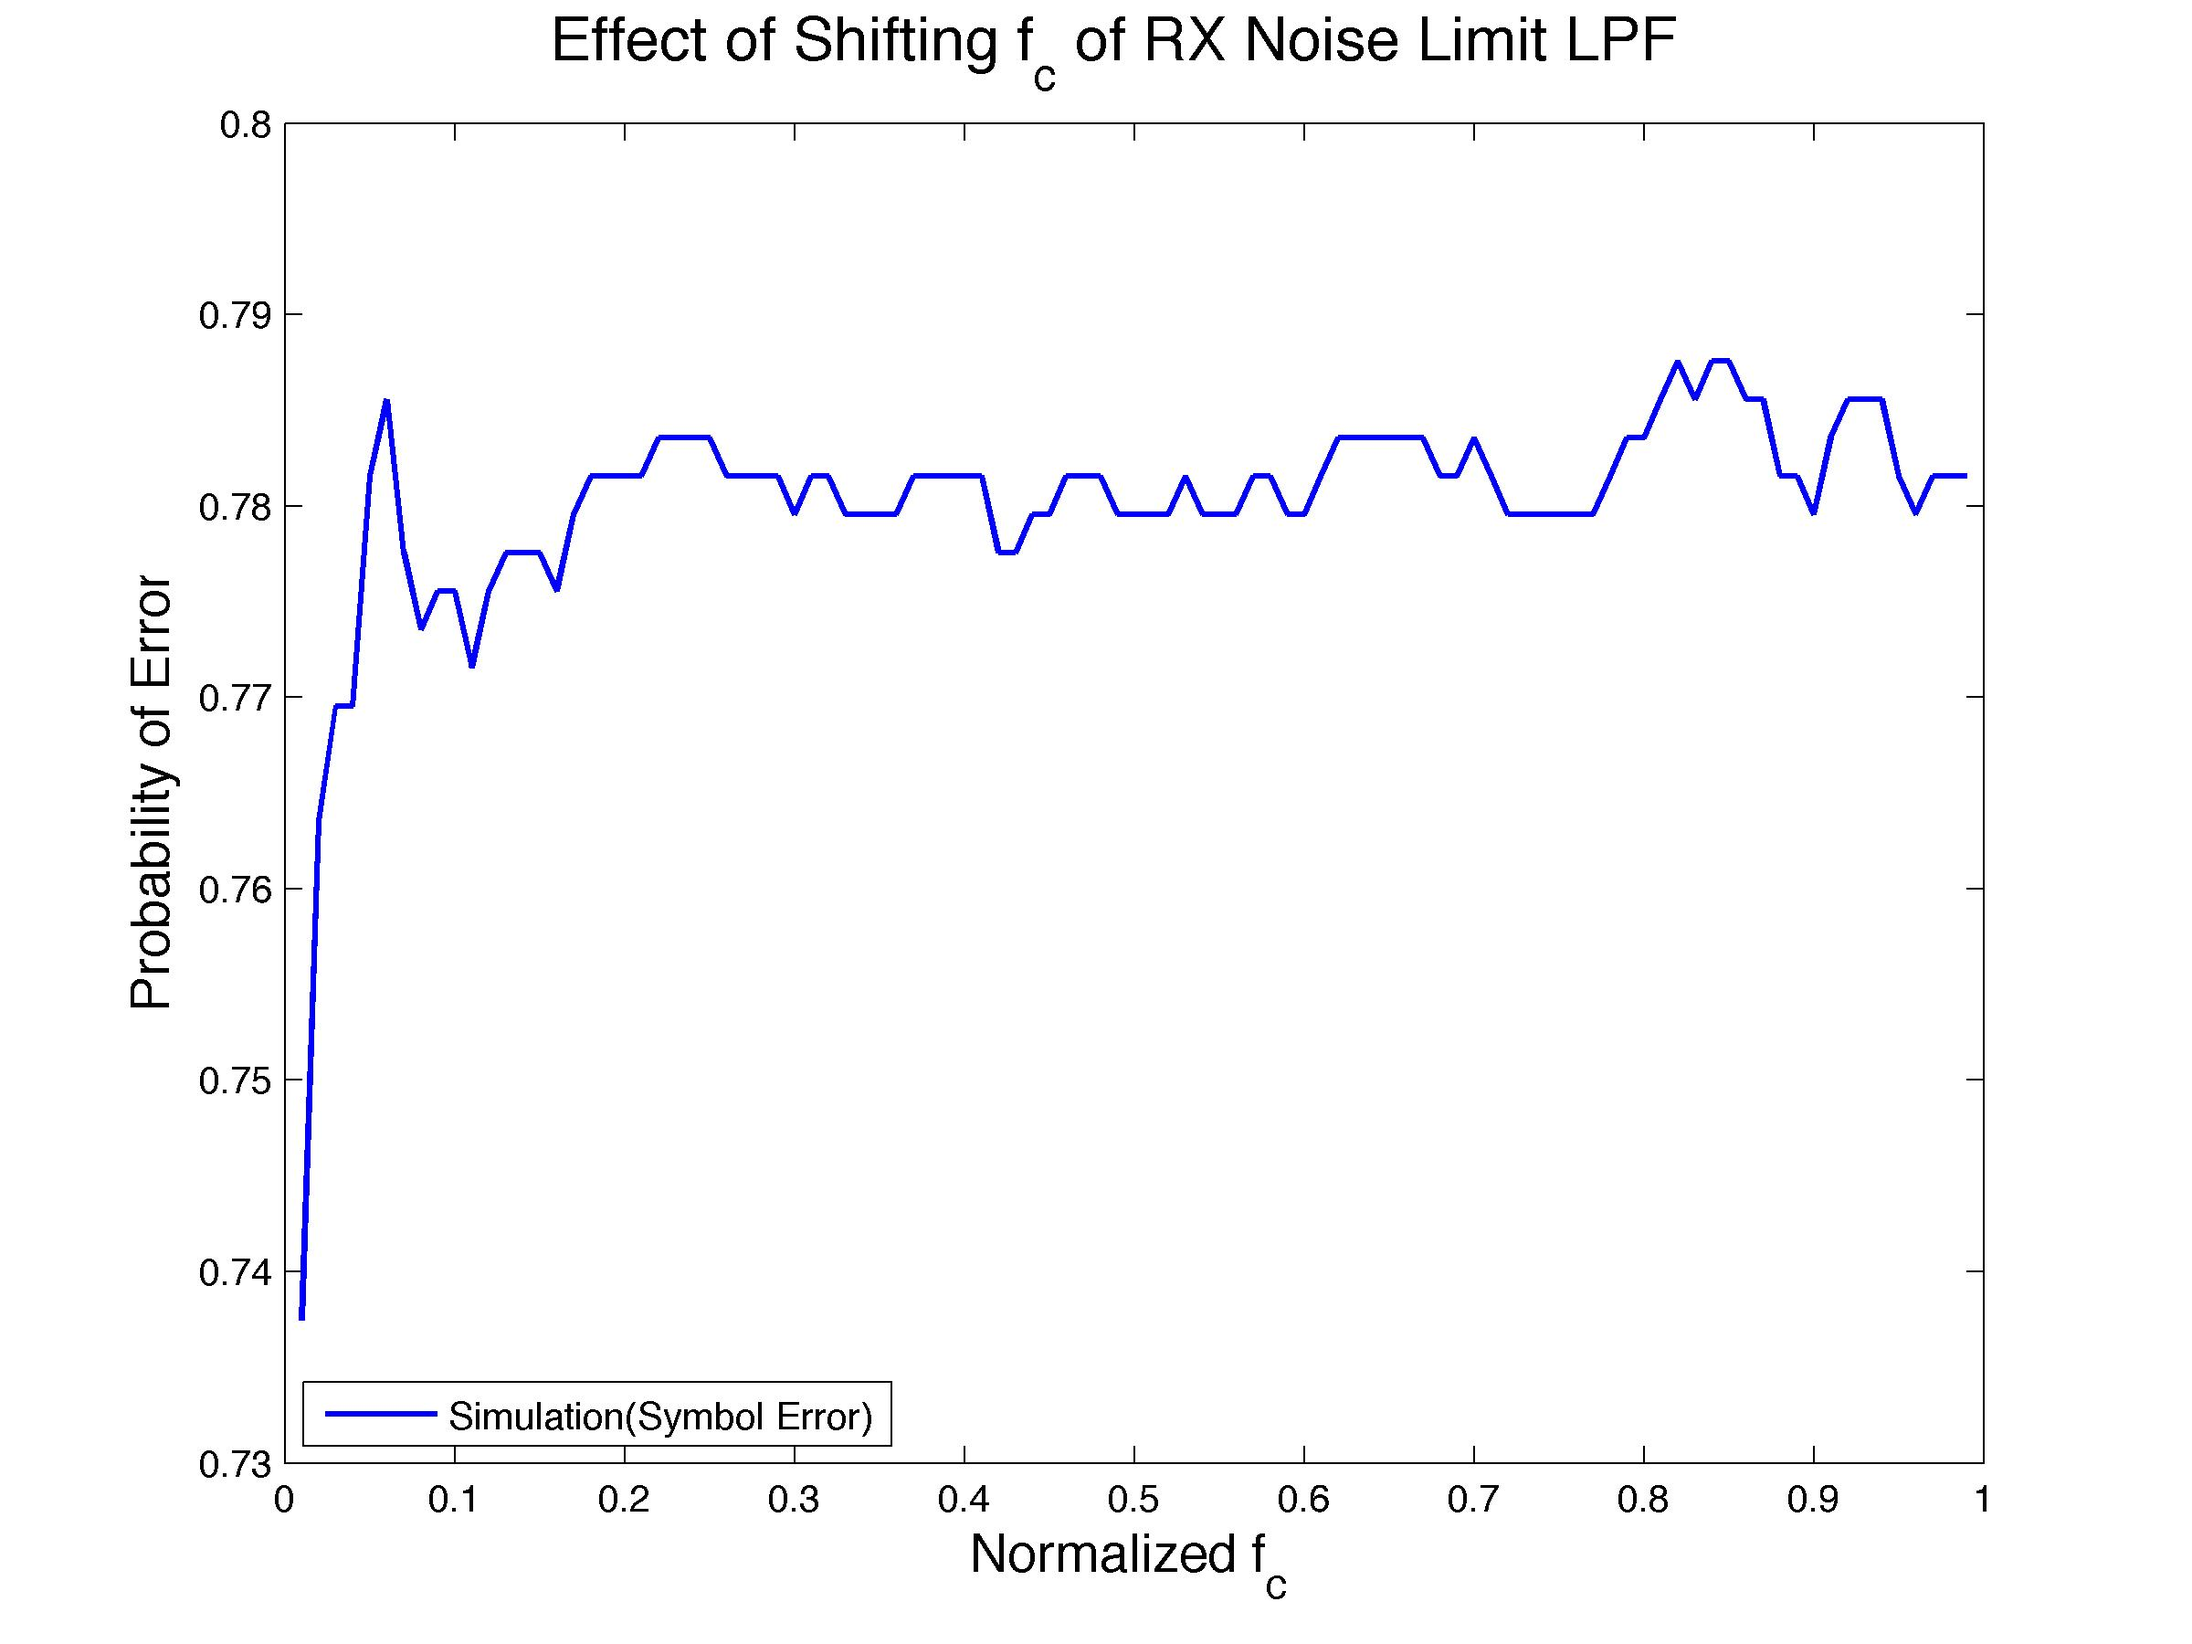
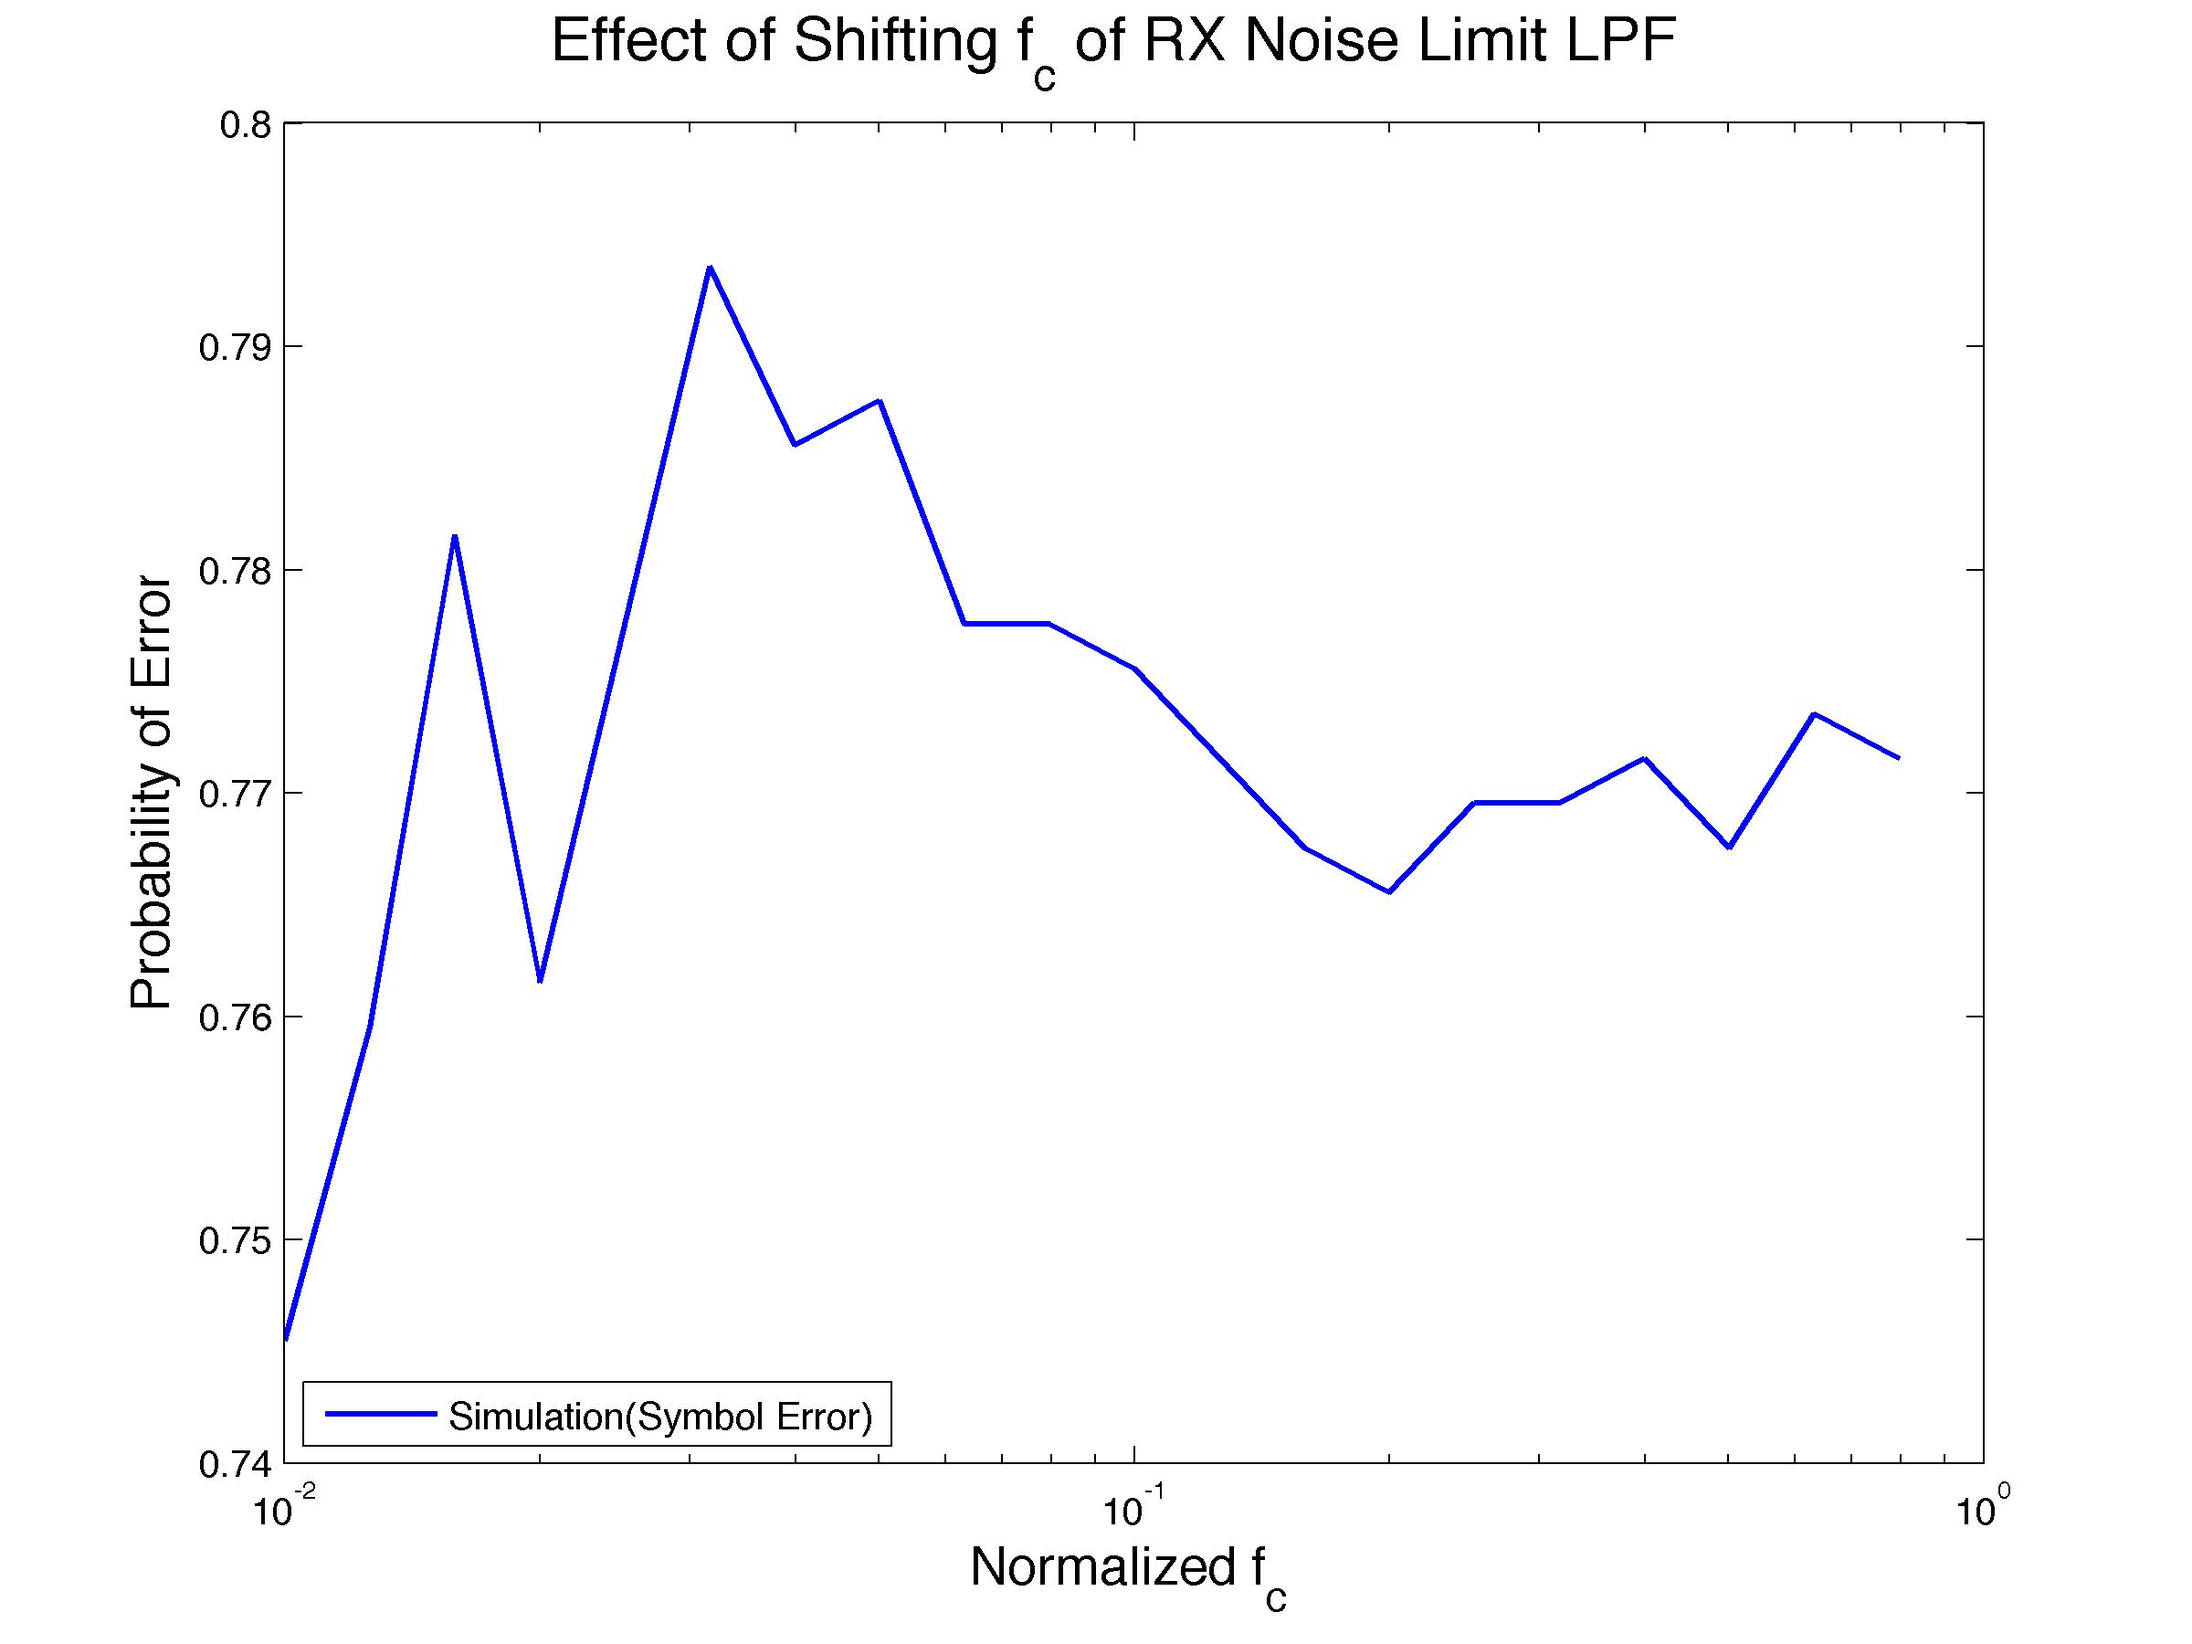
sensitivity plots

diff --git a/step4/step4_report.tex b/step4/step4_report.tex
@@ -108,7 +108,7 @@ After passing through the reconstruction filter, the analog signal is  sent thro
 \caption{Block Diagram of Step 4 system setup\label{fig:step4}}
 \end{figure}
 
-To bring the analog back to the digital world, an Analog-to-Digital converter (A/D) is used [Appendix~\ref{app:ad}].  However, just like before, the conversion is improved by the use of a filter.  An anti-aliasing low-pass filter constrains, or band limits, the channel noise before entering the A/D.  In this setting, the LPF protects against aliasing of high frequency content being recorded at the lower frequency.  We use the same Butterworth filter to accomplish this function.\\
+To bring the analog back to the digital world, an Analog-to-Digital converter is used [Appendix~\ref{app:ad}].  However, just like before, the conversion is improved by the use of a filter.  An anti-aliasing low-pass filter constrains, or band limits, the channel noise before entering the A/D.  In this setting, the LPF protects against aliasing of high frequency content being recorded at the lower frequency.  We use the same Butterworth filter to accomplish this function.\\
 
 The end of the simulation model is identical to the process in Step 1: a matched filter to the SRRC picks out the symbols from the noisy received signal.  Afterwards, a sampler recovers [Appendix~\ref{app:sampler}] the symbols before a demodulator converts the symbols back into bits [\ref{app:dblocks}].  
 
@@ -153,7 +153,7 @@ In the following sections the results of the simulations of a system using QPSK 
 
 The objective of this step was to visualize the effects of data converters in the system model.  Analog and digital waveforms can be safely interchanged only under certain conditions - namely when the sampling is fast enough.  In addition to a minimum sampling rate, low pass filters are necessary to protect against aliasing of high frequency content.  \\
 
-We included A/D and DAC blocks in our system to see how well the modulation and recovery performed in comparison to earlier trials.  TALK ABOUT COMPARE
+We included A/D and DAC blocks in our system to see how well the modulation and recovery performed in comparison to earlier trials.  TALK ABOUT RESULTS.
 
 We can also understand the importance of sampling timing on the bit error rate.  From a sensitivity analysis of the delay through the system, the A/D will sample at varying degrees of synch.  We would expect the sampling not to matter within a certain range, namely, when the symbols are above a certain threshold they are safely all interpreted as `1' - the actual level doesn't matter.  From such an experiment written in Appendix~\ref{app:delay}, when all other parameters like SNR and cutoff frequencies are kept equal, we do end up seeing periodic values for the SER.  This is shown in Figure~\ref{fig:delay}.\\
 
@@ -163,20 +163,23 @@ We can also understand the importance of sampling timing on the bit error rate. 
 \caption{SER plot as a function of delay through the system.  This shows that the system can peform better and worse depending on how in-time the A/D converts.  The effect is not large though. \label{fig:delay}}
 \end{figure}
 
-A similar analysis is done for changing the cutoff frequency of the TX reconstruction filter. Figure
+A similar analysis is done for the cutoff frequency of the TX reconstruction filter.   Recall, this filter is in place to bandlimit the DAC output so the high frequency content in the stairs does not create aliases in the lower, passband.  The filter model is controlled by a normalized cutoff frequency, where zero and one are mapped to $\left(0,f_s\right)$.  As such, we expect that the cutoff frequency will not make much difference except if it is way too low.  Even by choosing $f_c$ near one, all frequencies above the sampling frequency will be attenuated and the filter serves its purpose.  However, if $f_c$ gets too low, the information in the waveform may be lost.   \\
 
 \begin{figure}[H]
 \centering
 \hspace*{-2cm}\includegraphics[width=0.7\textwidth]{freqTX.jpg}
-\caption{SER plot as a function of cutoff frequency in the TX anti-aliasing Reconstruction filter.  When the cutoff is too low, BLAH BLAH. \label{fig:freqTX}}
+\caption{SER plot as a function of cutoff frequency in the TX anti-aliasing Reconstruction filter.  When the cutoff approaches zero, the data is lost. \label{fig:freqTX}}
 \end{figure}
 
+Figure~\ref{fig:freqTX} shows the sensitivity analysis of the anti-aliasing LPF normalized cutoff frequency.  The graph confirms the expected behavior discussed above.
 
 \begin{figure}[H]
 \centering
 \hspace*{-2cm}\includegraphics[width=0.7\textwidth]{freqRX.jpg}
-\caption{SER plot as a function of cutoff frequency in the RX noise limiting filter.  When the cutoff is too low, BLAH BLAH. \label{fig:freqRX}}
+\caption{SER plot as a function of cutoff frequency in the RX noise-limiting filter.  When the cutoff is too low, BLAH BLAH. \label{fig:freqRX}}
 \end{figure}
+
+We performed an equivalent analysis on the cutoff frequency in the RX noise-limiting filter.  This filter was aimed to low pass filter the high frequency content from the noise and only allow the signal through.  The same filter model was used, so a similar trend was expected.  The cutoff frequency would always limit the noise with frequency above sampling rate, so the response would mostly look flat.  
 
 \appendix
 \newpage

diff --git a/step4/sensitivityFreqTX.m b/step4/sensitivityFreqTX.m
@@ -3,7 +3,7 @@ close all;
 clear all;
 clc;
 
-freqs = .01:.01:.99;  % cuttoff frequency of LPF on TX
+freqs = logspace(-2,-.1,10);  % cuttoff frequency of LPF on TX
 del = 1; 
 
 N= 1000;  %number of bits generated
@@ -22,11 +22,12 @@ transmit = conv(impulse_train_inphase + 1i*impulse_train_quad,srrc,'same');
 transmit_analog = ZeroHoldInterpolation(transmit,overSampleSizeAnalog);
 
 
-ser = zeros(1,length(freqs));
+ser = zeros(5,length(freqs));
 a = 10^(EbN0/10);
 ser_theo =   ones(1,length(freqs))*(2*qfunc(sqrt(2*a))...
                                     -qfunc(sqrt(2*a))^2);
 
+for j=1:5
 for f=1:length(freqs)                                
     %anti aliasing filter
     filtered_transmit_analog = ButterworthFilter(4,freqs(f),transmit_analog);
@@ -51,12 +52,15 @@ for f=1:length(freqs)
     output_bits = qpsk_demod(real(sampled),imag(sampled));
   
     %SER calculation - drop first symbol   
-    ser(f) = SER(bits(3:N),output_bits(3:N),k);
+    ser(j,f) = SER(bits(3:N),output_bits(3:N),k);
 end
+end
+ser = mean(ser,1);
+
 %% plot theoretical/simulation BER vs SNR graph
 FS = 16; LW = 1.5;
 g=figure;
-plot(freqs,ser,'LineWidth',LW);
+semilogx(freqs,ser,'LineWidth',LW);
 ylabel('Probability of Error','FontSize',FS-2);
 xlabel('Normalized f_c','FontSize',FS-2);
 legend('Simulation(Symbol Error)','Location','SouthWest');

diff --git a/step4/sensitivityFreqRX.m b/step4/sensitivityFreqRX.m
@@ -3,7 +3,7 @@ close all;
 clear all;
 clc;
 
-freqs = .01:.01:.99;  % cuttoff frequency of LPF on RX
+freqs = logspace(-2,-.1,20);  % cuttoff frequency of LPF on RX
 del = 1;
 
 N= 1000;  %number of bits generated
@@ -51,11 +51,11 @@ for f=1:length(freqs)
     %SER calculation - drop first symbol
     ser(f) = SER(bits(3:N),output_bits(3:N),k);
 end
-
+ser = mean(ser,1);
 %% plot theoretical/simulation BER vs SNR graph
 FS = 16; LW = 1.5;
 g=figure;
-plot(freqs,ser,'LineWidth',LW);
+semilogx(freqs,ser,'LineWidth',LW);
 ylabel('Probability of Error','FontSize',FS-2);
 xlabel('Normalized f_c','FontSize',FS-2);
 legend('Simulation(Symbol Error)','Location','SouthWest');
